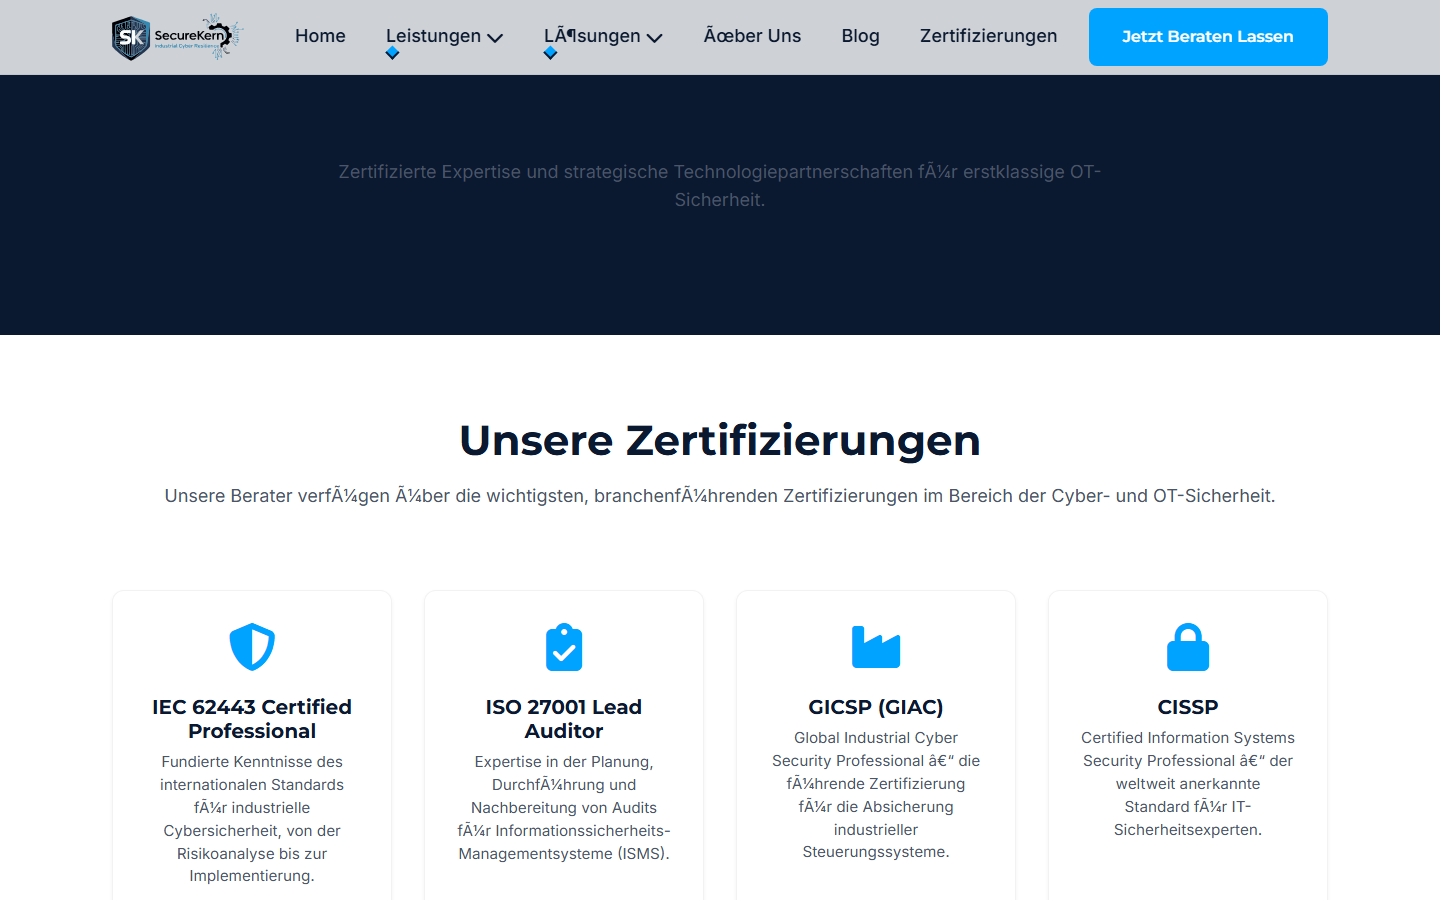
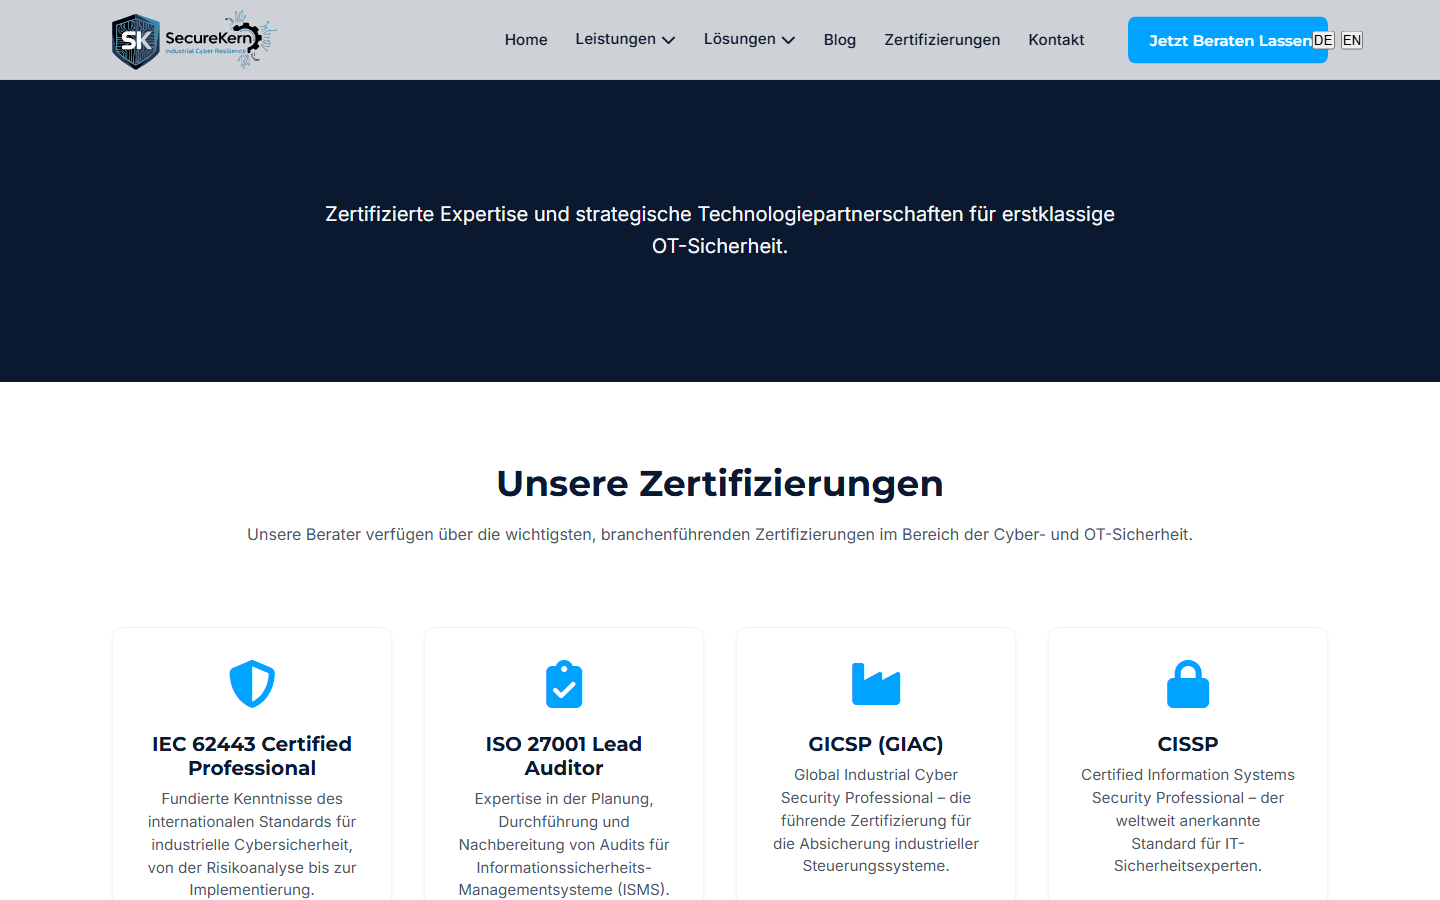
Fix: pin header CTA to container right and set uniform CTA width for pixel-consistent alignment

diff --git a/Website/assets/css/main.css b/Website/assets/css/main.css
@@ -1,6 +1,6 @@
 /* ====================================
    SecureKern - OT Security Website
-   Main Stylesheet ? Enhanced Brand Design
+   Main Stylesheet – Enhanced Brand Design
    ==================================== */
 
 /* === CSS VARIABLES === */
@@ -39,6 +39,7 @@
   --spacing-lg: 5rem;    /* 80px */
   --spacing-xl: 7.5rem;  /* 120px */
   --container-width: 1280px;
+  --header-height: 80px;
   
   /* UI Elements */
   --radius-sm: 4px;
@@ -48,6 +49,35 @@
   /* Transitions */
   --transition-fast: 0.2s ease-out;
   --transition-base: 0.3s ease-out;
+
+  /* Compatibility aliases (legacy sections still using old tokens) */
+  --neutral-white: var(--surface-light);
+  --neutral-light-gray: var(--surface-off-white);
+  --neutral-gray: #E2E8F0;
+  --primary-blue: var(--primary-navy);
+  --bg-light: var(--surface-off-white);
+  --background-light: var(--surface-light);
+  --border-color: rgba(0, 0, 0, 0.12);
+  --border-radius-sm: var(--radius-sm);
+  --border-radius-md: var(--radius-md);
+
+  --font-family-base: var(--font-body);
+  --font-family-headings: var(--font-heading);
+  --font-size-sm: 0.875rem;
+  --font-size-md: 1rem;
+  --font-size-lg: 1.125rem;
+  --font-size-xl: 1.25rem;
+  --font-size-h1: clamp(2.25rem, 4vw, 3.25rem);
+  --font-size-h2: clamp(1.75rem, 3vw, 2.25rem);
+
+  --space-xs: var(--spacing-xs);
+  --space-sm: var(--spacing-sm);
+  --space-md: var(--spacing-md);
+  --space-lg: var(--spacing-lg);
+  --space-xl: var(--spacing-xl);
+
+  --text-normal: var(--text-primary);
+  --text-muted: var(--text-secondary);
 }
 
 /* === RESET & BASE === */
@@ -64,7 +94,7 @@ html {
 
 body {
   font-family: var(--font-body);
-  font-size: 1.125rem; /* 18px */
+  font-size: 1rem; /* 16px */
   line-height: 1.6;
   color: var(--text-secondary);
   background-color: var(--surface-light);
@@ -92,9 +122,9 @@ h1, h2, h3, h4, h5, h6 {
   margin-bottom: var(--spacing-sm);
 }
 
-h1 { font-size: clamp(2.5rem, 5vw, 4rem); } /* 64px */
-h2 { font-size: clamp(2rem, 4vw, 2.625rem); } /* 42px */
-h3 { font-size: clamp(1.5rem, 3vw, 1.75rem); } /* 28px */
+h1 { font-size: var(--font-size-h1); }
+h2 { font-size: var(--font-size-h2); }
+h3 { font-size: clamp(1.375rem, 2.4vw, 1.75rem); }
 h4 { font-size: 1.25rem; } /* 20px */
 
 p {
@@ -194,7 +224,14 @@ a:hover {
   backdrop-filter: blur(10px);
   border-bottom: 1px solid rgba(0, 0, 0, 0.05);
   transition: all var(--transition-base);
-  padding: 0.5rem 0;
+  height: var(--header-height);
+  padding: 0;
+  display: flex;
+  align-items: center;
+}
+
+.header .container {
+  height: 100%;
 }
 
 .header--scrolled {
@@ -203,10 +240,21 @@ a:hover {
 }
 
 .nav {
-  display: flex;
-  justify-content: space-between;
+  display: grid;
+  grid-template-columns: auto 1fr auto;
   align-items: center;
-  gap: 1.25rem;
+  gap: 1rem;
+  height: 100%;
+}
+
+/* Ensure the menu is centered and actions are pinned to the right
+   so CTA buttons stay aligned across pages */
+.nav__menu {
+  justify-self: center;
+}
+
+.nav__actions {
+  justify-self: end;
 }
 
 /* Support both logo markup variants:
@@ -223,9 +271,8 @@ a:hover {
 }
 
 .nav__logo img,
-.nav__logo-icon,
-.nav__logo {
-  height: 48px;
+.nav__logo-icon {
+  height: 60px;
   width: auto;
   transition: transform var(--transition-base);
 }
@@ -237,6 +284,8 @@ a:hover {
 .nav__menu-container {
   display: flex;
   align-items: center;
+  justify-content: space-between;
+  gap: 1rem;
   flex: 1;
   min-width: 0;
 }
@@ -244,10 +293,13 @@ a:hover {
 .nav__menu {
   display: flex;
   list-style: none;
-  gap: 2.5rem;
+  flex: 1;
+  justify-content: center;
+  gap: 1.75rem;
   align-items: center;
   padding: 0;
-  margin: 0 auto; /* center menu between logo and actions */
+  margin: 0;
+  white-space: nowrap;
 }
 
 .nav__actions {
@@ -255,6 +307,78 @@ a:hover {
   align-items: center;
   gap: 0.75rem;
   flex-shrink: 0;
+  justify-self: end;
+  min-width: 0;
+}
+
+/* Ensure CTA is pinned to the visual right edge of the centered container for pixel-consistent alignment */
+.header .container {
+  position: relative;
+}
+
+.nav__actions {
+  position: static;
+}
+
+.nav__actions .btn--primary {
+  order: 2;
+  --cta-w: 200px;
+  width: var(--cta-w);
+  min-width: var(--cta-w);
+  white-space: nowrap;
+  justify-content: center;
+  position: absolute;
+  /* Pin to the right edge of the centered container */
+  right: calc((100% - var(--container-width)) / 2 + var(--spacing-md));
+  top: 50%;
+  transform: translateY(-50%);
+}
+
+.nav__actions .nav__lang-toggle {
+  order: 1;
+  position: absolute;
+  /* place to the left of CTA using CTA width variable */
+  right: calc((100% - var(--container-width)) / 2 + var(--spacing-md) + var(--cta-w) + 0.5rem);
+  top: 50%;
+  transform: translateY(-50%);
+}
+
+/* Support alternative language toggle markup */
+.nav__actions .language-toggle {
+  order: 1;
+  display: flex;
+  gap: 0.4rem;
+  align-items: center;
+  position: absolute;
+  right: calc((100% - var(--container-width)) / 2 + var(--spacing-md) + var(--cta-w) + 0.5rem);
+  top: 50%;
+  transform: translateY(-50%);
+}
+
+/* Disable absolute header positioning on smaller screens */
+@media (max-width: 1024px) {
+  .nav {
+    display: flex; /* revert to flow-based layout on narrow screens */
+  }
+  .nav__menu {
+    justify-self: stretch;
+  }
+  .header .container {
+    position: static;
+  }
+  .nav__actions .btn--primary,
+  .nav__actions .nav__lang-toggle,
+  .nav__actions .language-toggle {
+    position: static;
+    transform: none;
+    order: initial;
+    width: auto;
+  }
+}
+
+.nav__actions .btn {
+  padding: 0.75rem 1.25rem;
+  font-size: 0.95rem;
 }
 
 .nav__lang-toggle {
@@ -296,6 +420,29 @@ a:hover {
   border: 0;
 }
 
+.sk-toast {
+  position: fixed;
+  left: 50%;
+  bottom: 1.25rem;
+  transform: translateX(-50%) translateY(8px);
+  opacity: 0;
+  pointer-events: none;
+  z-index: 2000;
+  background: rgba(10, 25, 47, 0.95);
+  color: #fff;
+  padding: 0.75rem 1rem;
+  border-radius: 999px;
+  box-shadow: var(--shadow-lg);
+  font-family: var(--font-body);
+  font-size: 0.95rem;
+  transition: opacity var(--transition-fast), transform var(--transition-fast);
+}
+
+.sk-toast--show {
+  opacity: 1;
+  transform: translateX(-50%) translateY(0);
+}
+
 .nav__lang-toggle:hover {
   background: var(--surface-off-white);
   border-color: rgba(0, 0, 0, 0.25);
@@ -305,7 +452,8 @@ a:hover {
   color: var(--text-primary);
   font-weight: 500;
   position: relative;
-  padding: 0.5rem 0;
+  padding: 0.35rem 0;
+  font-size: 0.95rem;
 }
 
 .nav__link:hover,
@@ -369,7 +517,7 @@ a:hover {
   position: relative;
 }
 .nav__item--has-dropdown > .nav__link {
-  cursor: default;
+  cursor: pointer;
   display: flex;
   align-items: center;
   gap: 0.3rem;
@@ -382,7 +530,7 @@ a:hover {
 }
 .nav__dropdown {
   position: absolute;
-  top: calc(100% + 1rem);
+  top: calc(100% + 0.5rem);
   left: 50%;
   transform: translateX(-50%);
   min-width: 240px;
@@ -399,11 +547,29 @@ a:hover {
   border: 1px solid rgba(0,0,0,0.08);
 }
 
+.nav__item--has-dropdown::after {
+  content: "";
+  position: absolute;
+  left: 0;
+  right: 0;
+  top: 100%;
+  height: 12px;
+}
+
 .nav__item--has-dropdown:hover .nav__dropdown {
   opacity: 1;
   visibility: visible;
   pointer-events: auto;
   transform: translateX(-50%) translateY(-0.5rem);
+}
+
+@media (min-width: 1201px) {
+  .nav__item--has-dropdown.open .nav__dropdown {
+    opacity: 1;
+    visibility: visible;
+    pointer-events: auto;
+    transform: translateX(-50%) translateY(-0.5rem);
+  }
 }
 .nav__dropdown-link {
   display: block;
@@ -502,7 +668,7 @@ a:hover {
 }
 
 .hero__content .hero__subtitle {
-    font-size: 1.375rem; /* 22px */
+    font-size: 1.25rem;
     color: rgba(255, 255, 255, 0.9);
     margin-bottom: 2rem;
     line-height: 1.5;
@@ -762,7 +928,7 @@ a:hover {
 }
 
 /* === RESPONSIVE DESIGN === */
-@media (max-width: 1024px) {
+@media (max-width: 1200px) {
   .nav__hamburger {
     display: flex;
   }
@@ -847,6 +1013,10 @@ a:hover {
         flex-direction: column;
         gap: 1rem;
         text-align: center;
+    }
+    .contact-grid {
+        grid-template-columns: 1fr;
+        gap: var(--spacing-lg);
     }
 }
 
@@ -1264,6 +1434,7 @@ a:hover {
     resize: vertical;
 }
 
+.contact-info,
 .contact-info ul {
     list-style: none;
     padding: 0;
